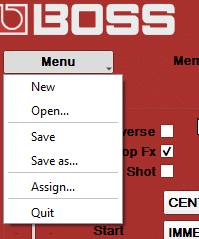
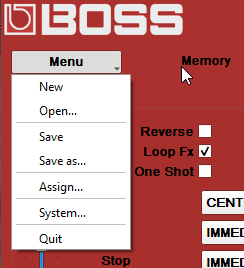
Update documentation

diff --git a/doc/index.html b/doc/index.html
@@ -3,12 +3,14 @@
 <head>
     <meta charset="UTF-8">
     <title>Boss RC-500 Editor</title>
+    <style type="text/css">
+    </style>
 </head>
 <body>
 
 <h1 align="center">Boss RC-500 Editor</h1>
 <div align="center">
-    <img alt="GUI Screenshot" src="screenshot.png" height="500" />
+    <img alt="GUI Screenshot" src="screenshot.png" height="500"/>
 </div>
 
 This tool allows creating, updating and saving a configuration file for the Boss RC-500 looper.
@@ -38,30 +40,33 @@ The window title will show you the filename you are currently editing.
 <h2>Menu</h2>
 
 <div align="center">
-    <img alt="GUI Screenshot" src="menu.png" />
+    <img alt="GUI Screenshot" src="menu.png"/>
 </div>
 
 <h3>New</h3>
-Create a new database by reading the default one provided (in resources/templates/MEMORY_DEFAULT.RC0).
+Create a new database by reading the default ones provided in resources/templates/MEMORY_DEFAULT.RC0 and
+resources/templates/SYSTEM_DEFAULT.RC0
 A new database has no name, you will need to provide one when you will save it to disk.
 
 <h3>Open...</h3>
 
-Open an existing memory file.
+Open an existing directory which contains the memory and system files (ROLAND/DATA for example).
 
 <h3>Save</h3>
 
-Save the current database into a file.
-For a new database, you will be prompted for a filename on your disk (or directly in your looper).
+Save the current databases into files.
+For a new database, you will be prompted for a directory name on your disk (or directly in your looper).
 
-If the name of the filename is "MEMORY1.RC0", the tool will automatically create a "MEMORY2.RC0" in
-the same directory. It allows the looper to ake in account the new files else it tries to load one that
+All files needed by the Boss RC500 looper will we writtent to disk MEMORO1.RC0, MEMORY2.RC0, SYSTEM1.RC0 and
+SYSTEM2.RC0.
+
+It allows the looper to take in account the new files else it tries to load one that
 contains the checksum (no computed by the tool)
 
 <h4>Memory</h4>
 
 <div align="center">
-    <img alt="Memory Screenshot" src="memory.png" />
+    <img alt="Memory Screenshot" src="memory.png"/>
 </div>
 
 This list allows to change the current memory you are working on.
@@ -77,9 +82,8 @@ This option allow you to copy the current memory slot to range of memory slots.
 So you can easily duplicate your setting from a slot to some other quickly.
 
 <div align="center">
-    <img alt="Copy Screenshot" src="copy.png" />
+    <img alt="Copy Screenshot" src="copy.png"/>
 </div>
-
 
 <h4>Assigns</h4>
 
@@ -94,6 +98,21 @@ Cancel will revert any changes you have made.
 
 <h5>Apply</h5>
 Appy will apply the changes to the current memory selected in the main window.
+
+
+<h4>System</h4>
+
+<div align="center">
+    <img alt="System Screenshot" src="system.png" height="300"/>
+</div>
+
+This window allows you to edit the SYSTEM part of the looper.
+
+<h5>Cancel</h5>
+Cancel will revert any changes you have made.
+
+<h5>Apply</h5>
+Appy will apply the changes to global system database.
 
 </body>
 </html>
